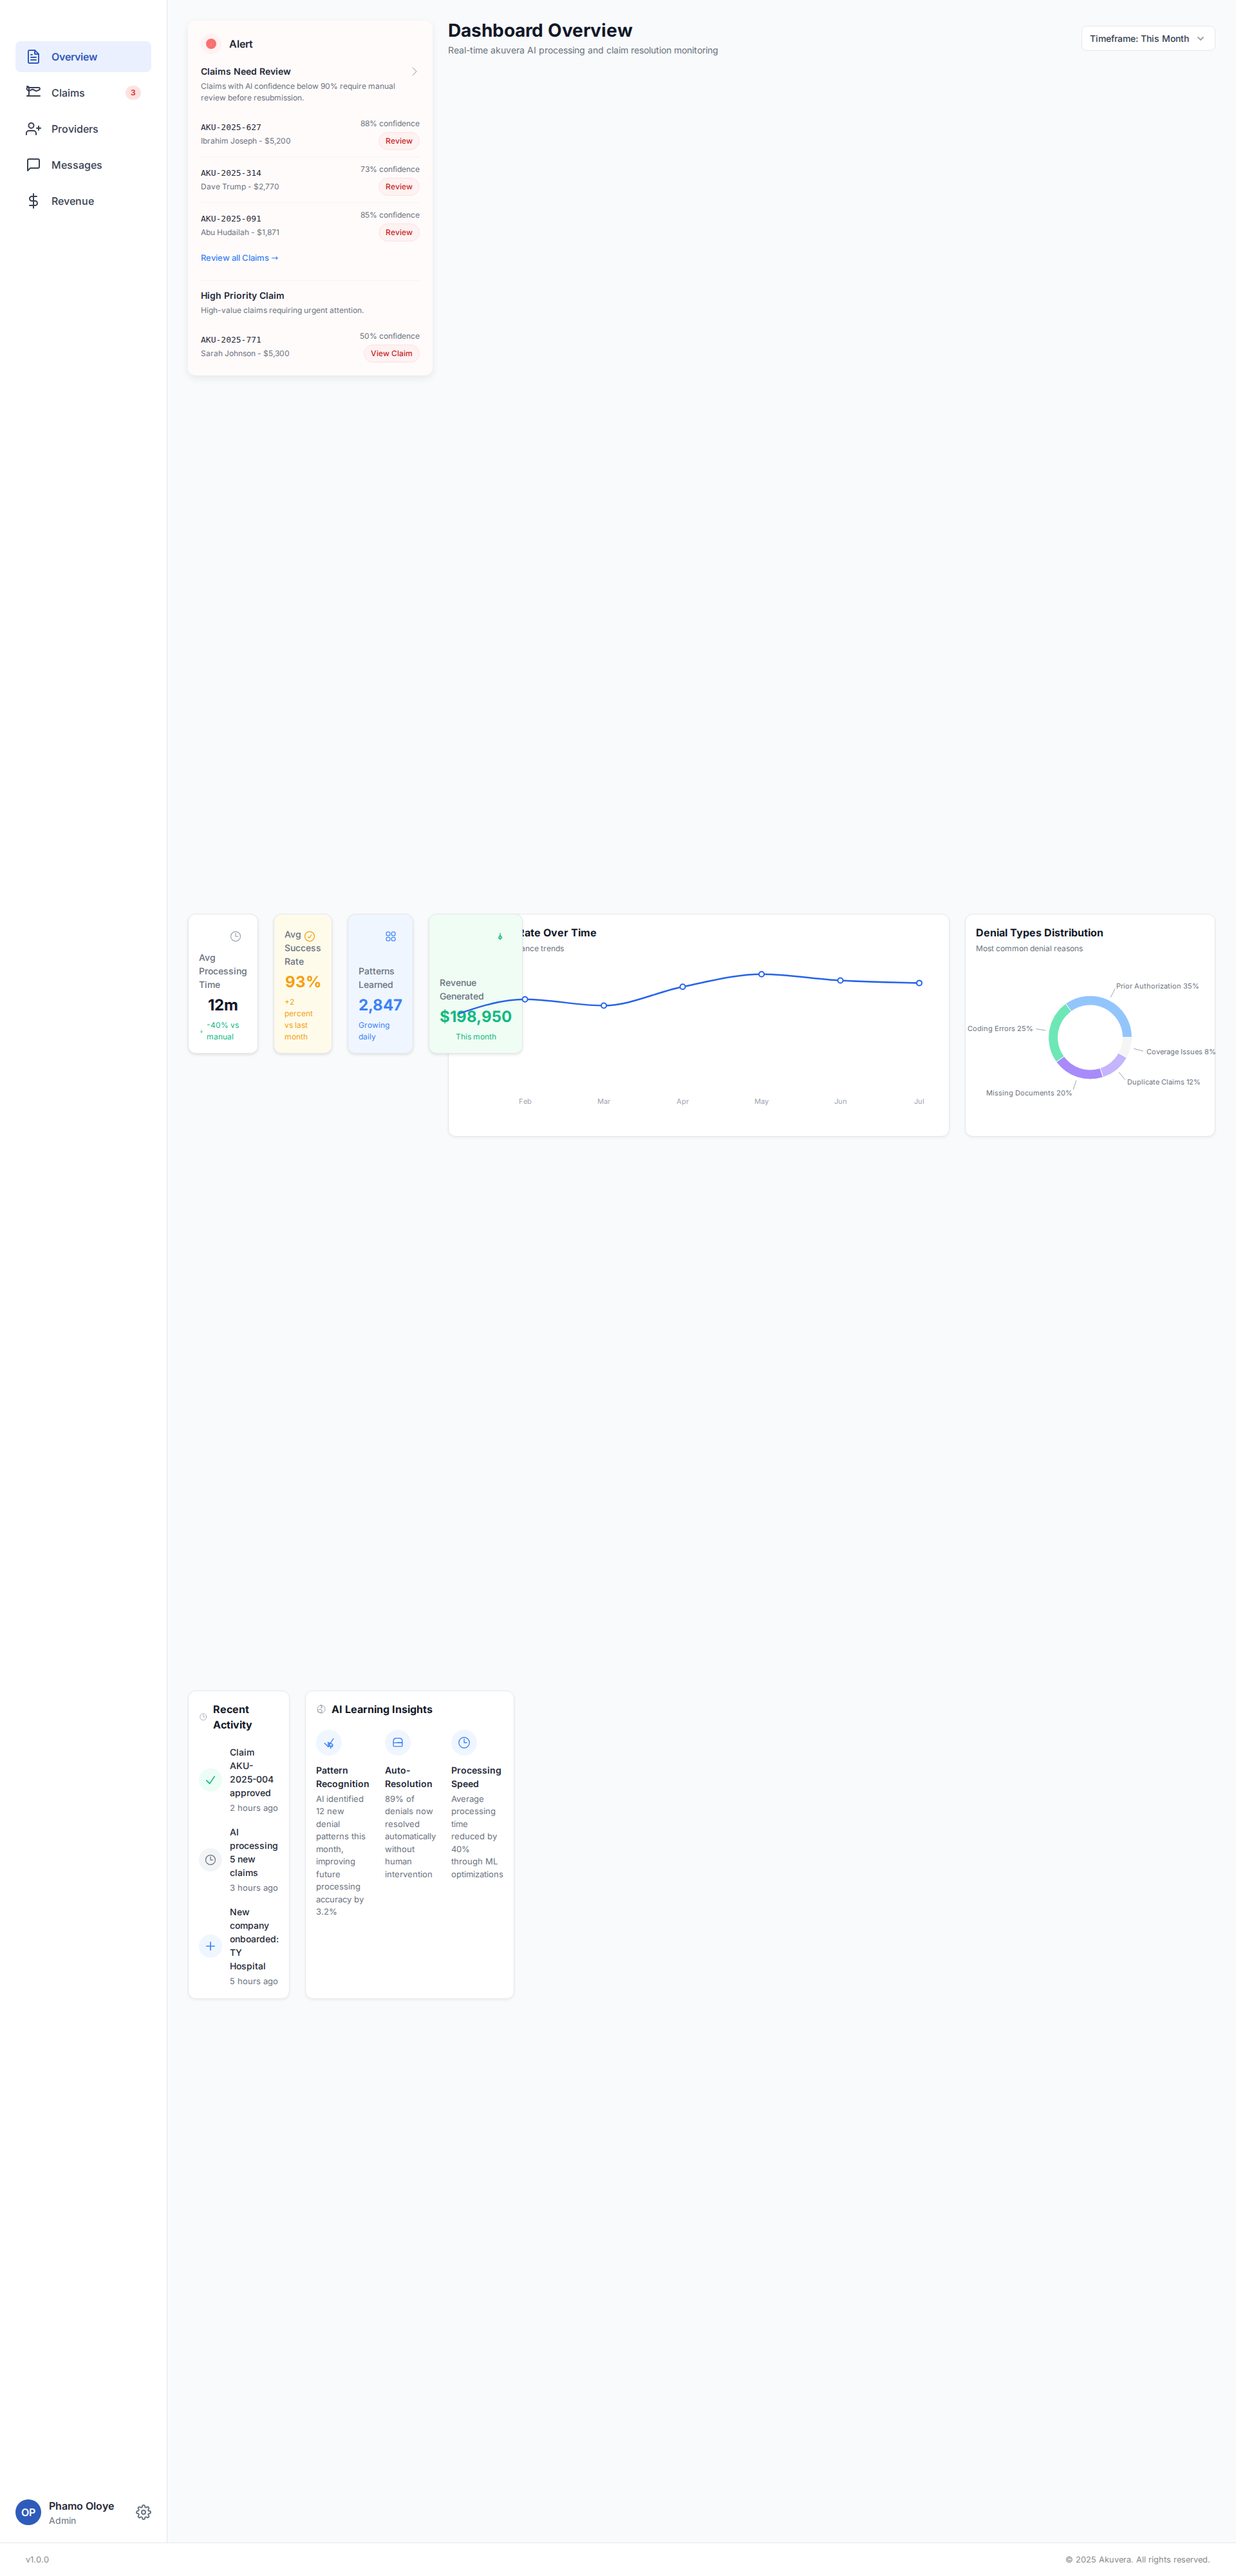
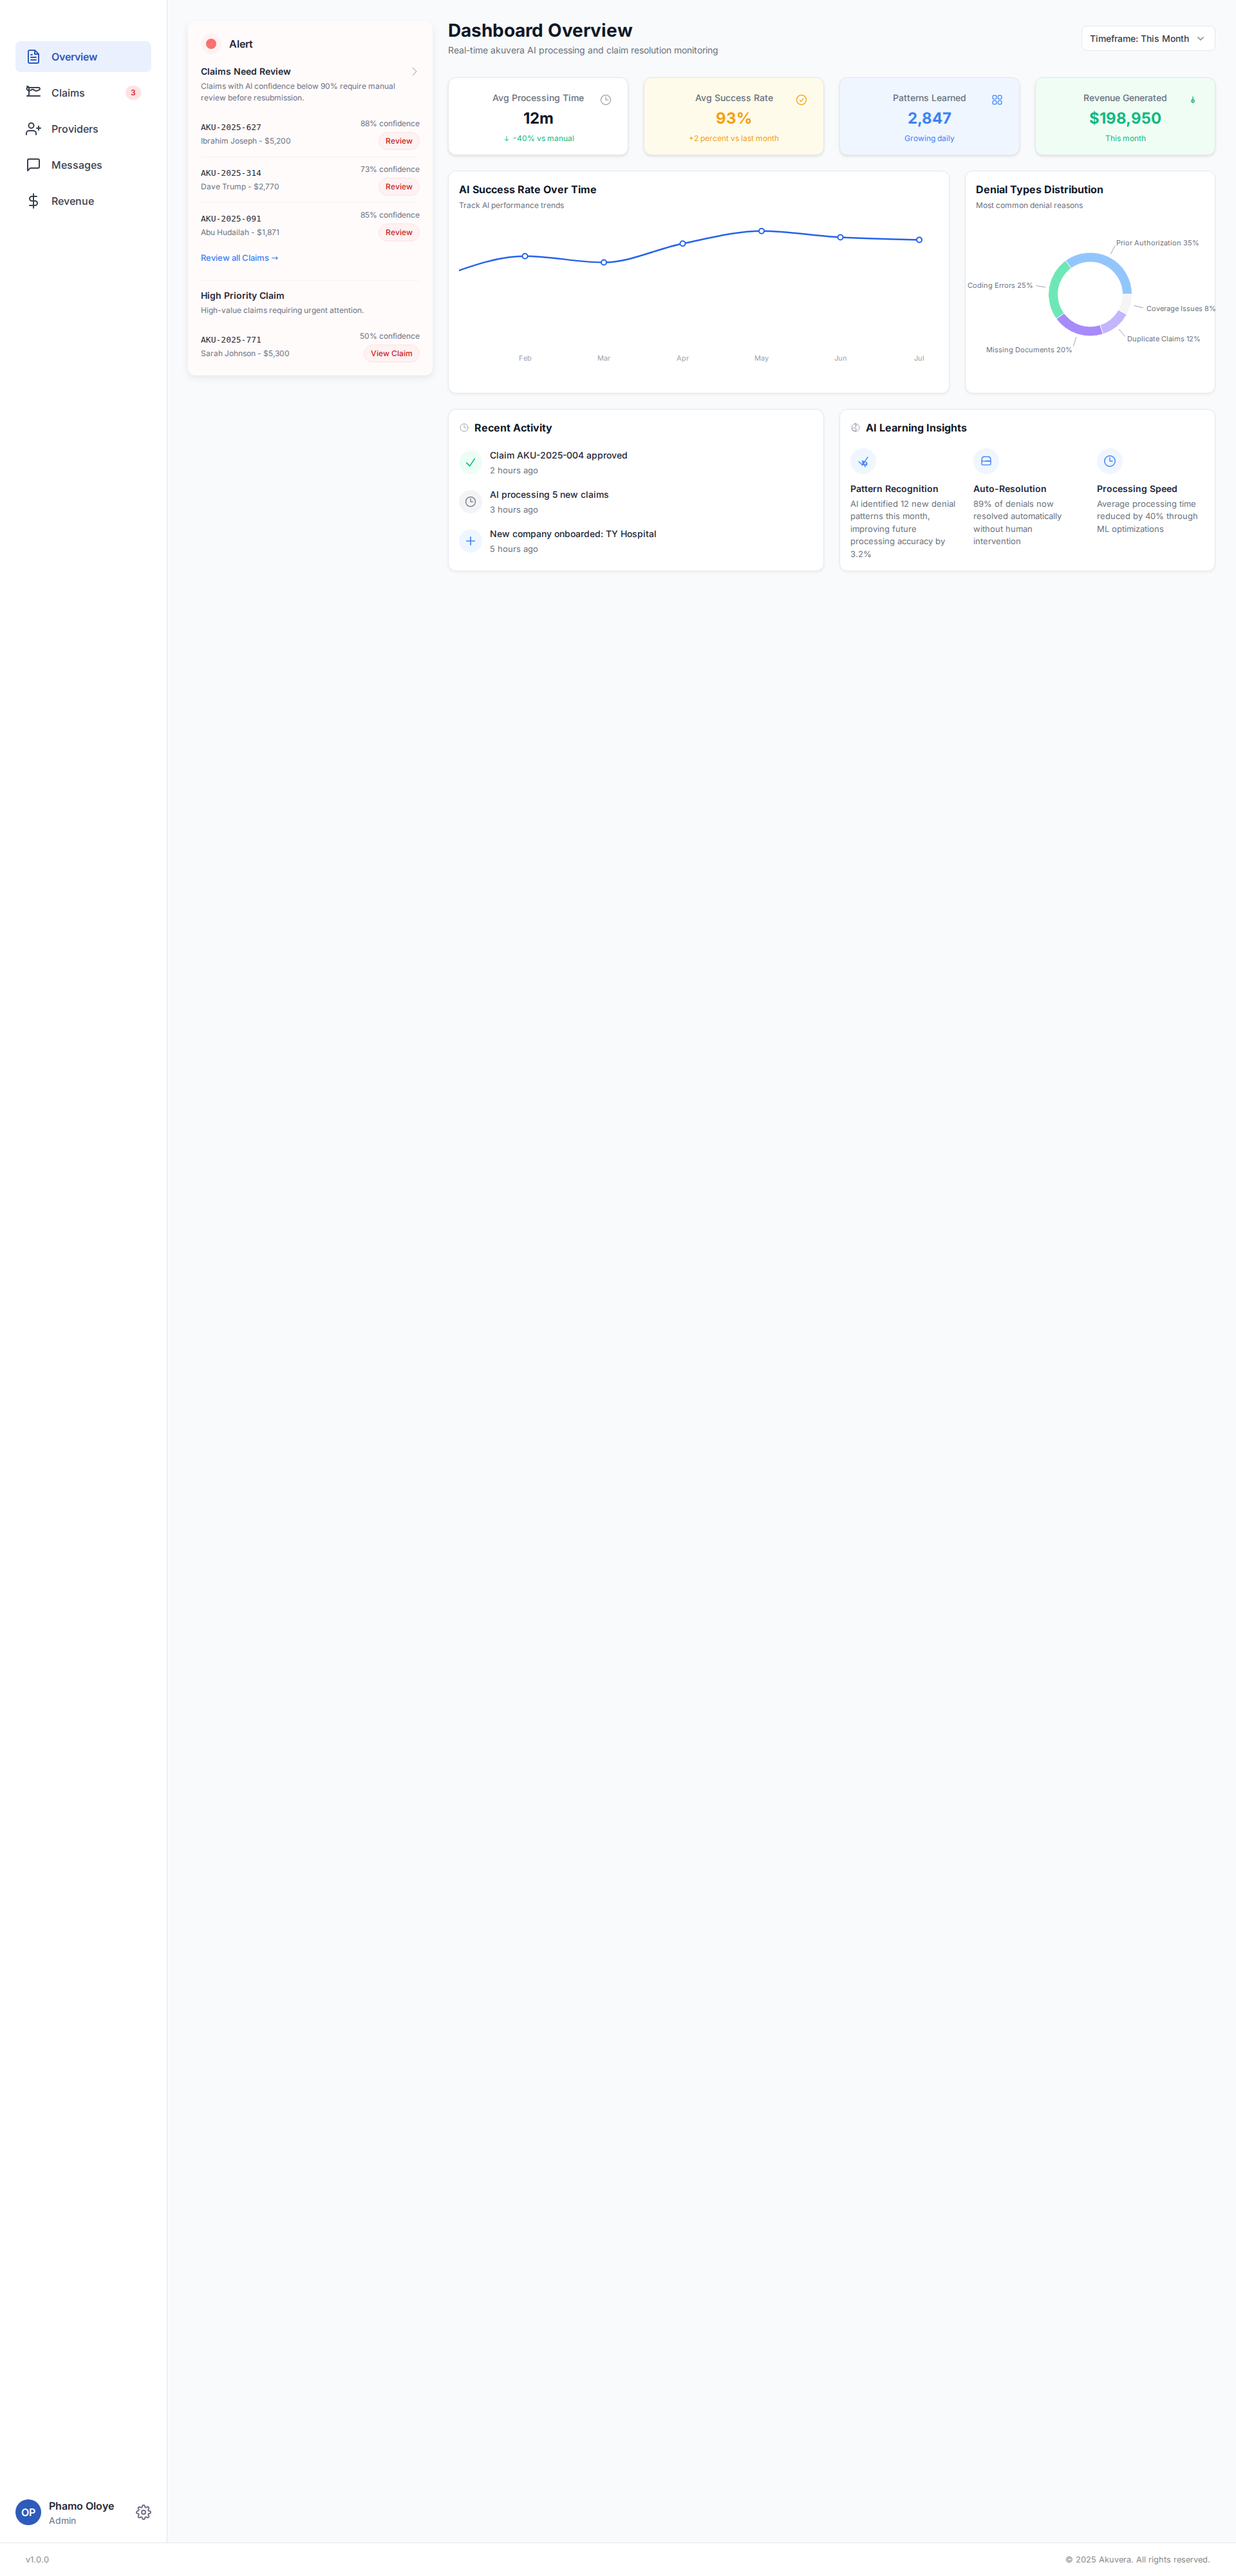
Fix: Correct the dashboard layout by wrapping the overview component.
This commit resolves a layout issue where the dashboard content appeared scattered. The problem was caused by the `DashboardOverview` component returning multiple top-level elements (due to a React Fragment), which conflicted with the parent CSS Grid layout in `Dashboard.css`.

The fix involves replacing the React Fragment (`<>...</>`) with a `<div>` in `DashboardOverview.tsx`. This ensures the component renders as a single element, allowing it to be correctly placed as a single item within the parent grid, restoring the intended two-column layout.

diff --git a/Kuve-AKU-1/dist/index.html b/Kuve-AKU-1/dist/index.html
@@ -5,7 +5,7 @@
     <link rel="icon" type="image/svg+xml" href="/vite.svg" />
     <meta name="viewport" content="width=device-width, initial-scale=1.0" />
     <title>Vite + React + TS</title>
-    <script type="module" crossorigin src="/assets/index-CVSEQfNp.js"></script>
+    <script type="module" crossorigin src="/assets/index-DL1bCA97.js"></script>
     <link rel="stylesheet" crossorigin href="/assets/index-BfNqHj_4.css">
   </head>
   <body>

diff --git a/Kuve-AKU-1/src/components/DashboardOverview.tsx b/Kuve-AKU-1/src/components/DashboardOverview.tsx
@@ -59,7 +59,7 @@ const CustomTooltip = ({ active, payload }: any) => {
 
 const DashboardOverview = () => {
   return (
-    <>
+    <div>
       <header className="header">
         <div>
           <h1 className="header-title">Dashboard Overview</h1>
@@ -249,7 +249,7 @@ const DashboardOverview = () => {
           </div>
         </div>
       </div>
-    </>
+    </div>
   );
 };
 
